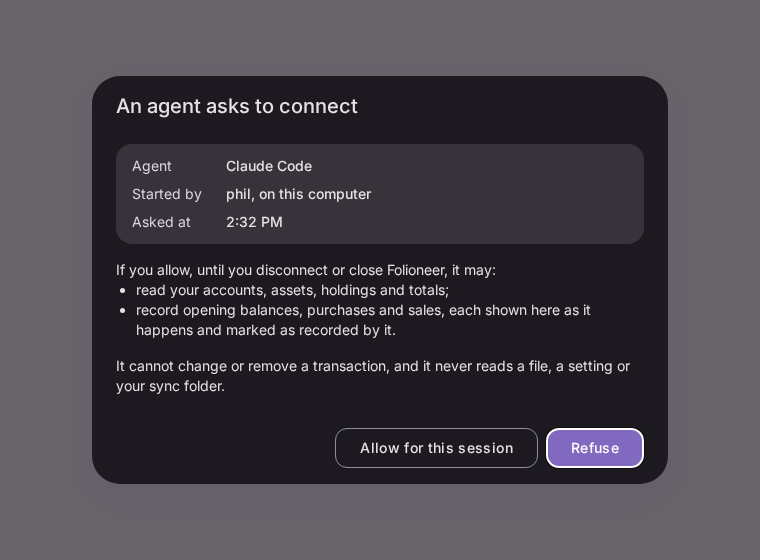
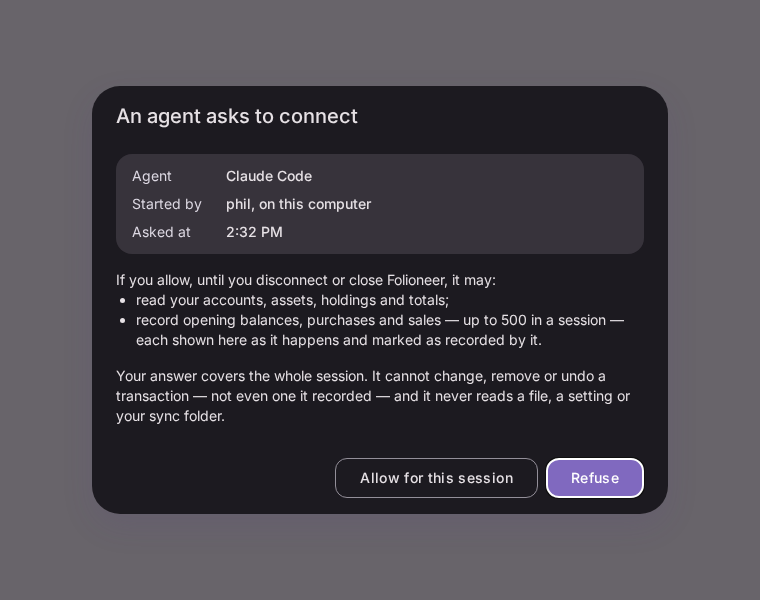
fix: a recording an agent started completes even if you disconnect
AGT-049 — the record-and-mark pair runs to its end once started; the consent dialog says what one answer covers and that an agent cannot undo.

Claude-Session: https://claude.ai/code/session_01BBjNQU5CM7voUmypuhKsH8

diff --git a/src-tauri/src/agent_connection/tools.rs b/src-tauri/src/agent_connection/tools.rs
@@ -63,7 +63,7 @@ impl From<Asset> for AssetRow {
 
 /// Runs the tools in the running application, through the queries the window uses.
 pub struct AgentTools {
-    recorder: HoldingTransactionUseCase,
+    recorder: Arc<HoldingTransactionUseCase>,
     account_service: Arc<dyn AccountServiceContract>,
     asset_service: Arc<dyn AssetServiceContract>,
     summaries: AccountSummaryUseCase,
@@ -78,10 +78,10 @@ impl AgentTools {
         currency_service: Arc<CurrencyService>,
     ) -> Self {
         Self {
-            recorder: HoldingTransactionUseCase::new(
+            recorder: Arc::new(HoldingTransactionUseCase::new(
                 Arc::clone(&account_service),
                 Arc::clone(&asset_service),
-            ),
+            )),
             summaries: AccountSummaryUseCase::new(
                 Arc::clone(&account_service),
                 Arc::clone(&asset_service),
@@ -202,14 +202,31 @@ impl AgentTools {
             session: granted.key.clone(),
             session_started_at: granted.started_at.clone(),
         };
-        let recorded = self
-            .recorder
-            .record_named_by_agent(recording, &today, &mark)
-            .await
-            .map_err(|refusal| Refusal {
+        // AGT-049 — once started, the recording and its mark run to their end, whatever
+        // becomes of the connection that asked: a disconnect or a closing application
+        // never leaves a transaction between its two writes.
+        let recorder = Arc::clone(&self.recorder);
+        let outcome = tokio::spawn(async move {
+            recorder
+                .record_named_by_agent(recording, &today, &mark)
+                .await
+        })
+        .await
+        .map_err(|error| {
+            tracing::error!(target: BACKEND, err = ?error, "agent recording: the task ended early");
+            portfolio_unreadable()
+        })?;
+        let recorded = outcome.map_err(|refusal| {
+            // A transaction that stayed without its mark was recorded all the same: it
+            // counts against the session's limit (AGT-047).
+            if refusal.code == "RecordedNotMarked" {
+                granted.count_recording();
+            }
+            Refusal {
                 code: refusal.code,
                 message: refusal.message,
-            })?;
+            }
+        })?;
         granted.count_recording();
         tracing::info!(target: BACKEND, session = granted.session_id, transaction = %recorded.transaction.id, kind = %recorded.transaction.transaction_type, "agent recording");
         as_json(&serde_json::json!({

diff --git a/docs/spec/agent-connection.md b/docs/spec/agent-connection.md
@@ -63,7 +63,7 @@ Two things are kept on the computer across restarts, and neither is synced to th
 
 **AGT-031 — Nothing runs before the owner allowed (backend)**: A tool call on a connection the owner has not allowed is refused and reaches no tool. A refusal ends that request; the bridge then closes its connection, so the agent's next call asks again.
 
-**AGT-032 — The owner allows or refuses in the window (frontend + backend)**: While an agent waits, a dialog shows over whatever view is open: the agent's name, the user it runs as — the application's own, the only one whose programs can connect (AGT-021) — the time it asked, what a yes covers — reading the accounts, the assets, the holdings and the totals, and recording opening balances, purchases and sales (AGT-044) — and what it never covers: changing or removing a transaction, reading a file, a setting or the sync folder. Its two actions are "Allow for this session" and "Refuse". It is easy to refuse and hard to approve blindly: refusing is the filled action and has the focus; "Allow" is inactive for a moment after the dialog appears; the keyboard's focus stays on the two actions; and the dialog closes only by an answer — neither its corner nor its backdrop dismisses it. A refusal gives the agent nothing: its call is answered that the connection was refused. Several agents waiting are shown one at a time, oldest first.
+**AGT-032 — The owner allows or refuses in the window (frontend + backend)**: While an agent waits, a dialog shows over whatever view is open: the agent's name, the user it runs as — the application's own, the only one whose programs can connect (AGT-021) — the time it asked, what a yes covers — reading the accounts, the assets, the holdings and the totals, and recording opening balances, purchases and sales, up to the session's limit (AGT-044, AGT-047) — that one answer covers the whole session, and what it never covers: changing, removing or undoing a transaction, even one the agent recorded, and reading a file, a setting or the sync folder. Its two actions are "Allow for this session" and "Refuse". It is easy to refuse and hard to approve blindly: refusing is the filled action and has the focus; "Allow" is inactive for a moment after the dialog appears; the keyboard's focus stays on the two actions; and the dialog closes only by an answer — neither its corner nor its backdrop dismisses it. A refusal gives the agent nothing: its call is answered that the connection was refused. Several agents waiting are shown one at a time, oldest first.
 
 **AGT-033 — One grant covers the session (frontend + backend)**: Once allowed, the agent's calls on that connection are served without another question, and each is counted. While an agent is connected the header says so — "{agent} is connected" — on every view; a long name is shown cut, with the whole name as its hint. Nothing of a grant is remembered once the session ends, except on what it recorded (AGT-045).
 
@@ -99,7 +99,7 @@ Two things are kept on the computer across restarts, and neither is synced to th
 
 **AGT-048 — The refusals of a recording (backend)**: Figures are decimals with a dot and at most six decimals, as text or as JSON numbers; anything else is refused with `InvalidFigure`; a missing figure, account or asset with `MissingArgument`. An argument a recording does not know is ignored, as for the read tools (AGT-040). A price together with a total, or neither, a `date` or a `note` that is not text, and a note that is too long are refused with `InvalidArguments` — a date that is not text is never read as today. Every other refusal is the recording's own, with its code and its reason: the account or the asset not found or ambiguous (CLI-011), a date that is text but not a date (`InvalidDate`) or is in the future (`DateInFuture`), an oversell, and the rest of the window's rules (CLI-012).
 
-**AGT-049 — A recording that cannot be marked is undone (backend)**: Recording and marking are one operation of the core. When the mark cannot be written the recording is undone and the agent is refused with `NotRecorded`: nothing was recorded. Should the undoing fail too, the refusal is `RecordedNotMarked`, which says the transaction was recorded and tells the agent to tell the owner; both failures are written to the log.
+**AGT-049 — A recording that cannot be marked is undone (backend)**: Recording and marking are one operation of the core, which runs to its end once started: a disconnect or a closing application never stops it between its two writes. When the mark cannot be written the recording is undone and the agent is refused with `NotRecorded`: nothing was recorded. Should the undoing fail too, the refusal is `RecordedNotMarked`, which says the transaction was recorded and tells the agent to tell the owner; both failures are written to the log, and that transaction counts against the session's limit (AGT-047).
 
 ---
 
